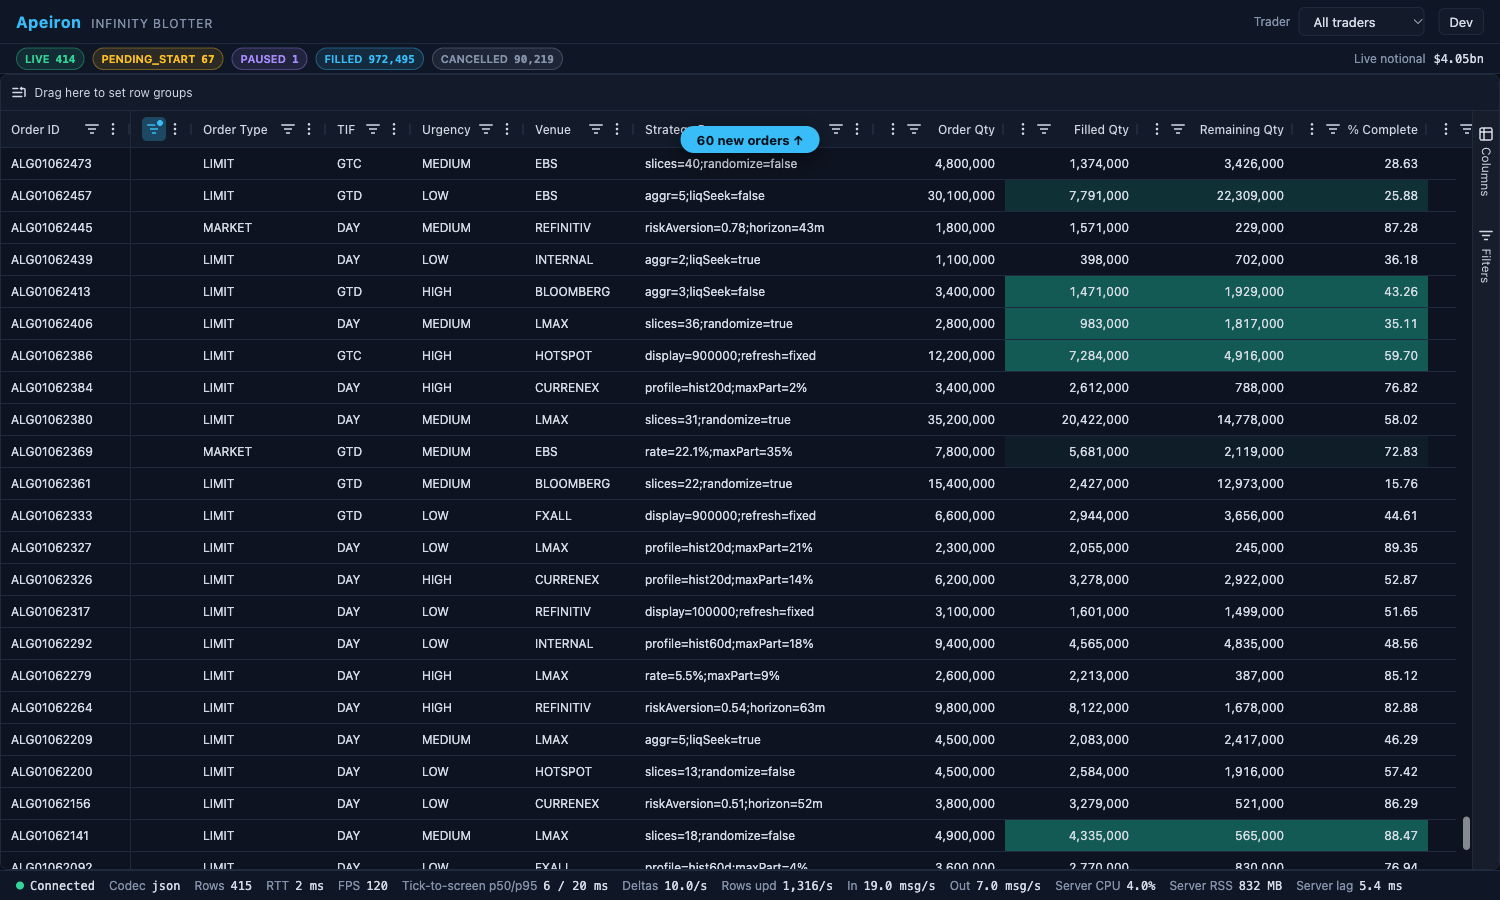
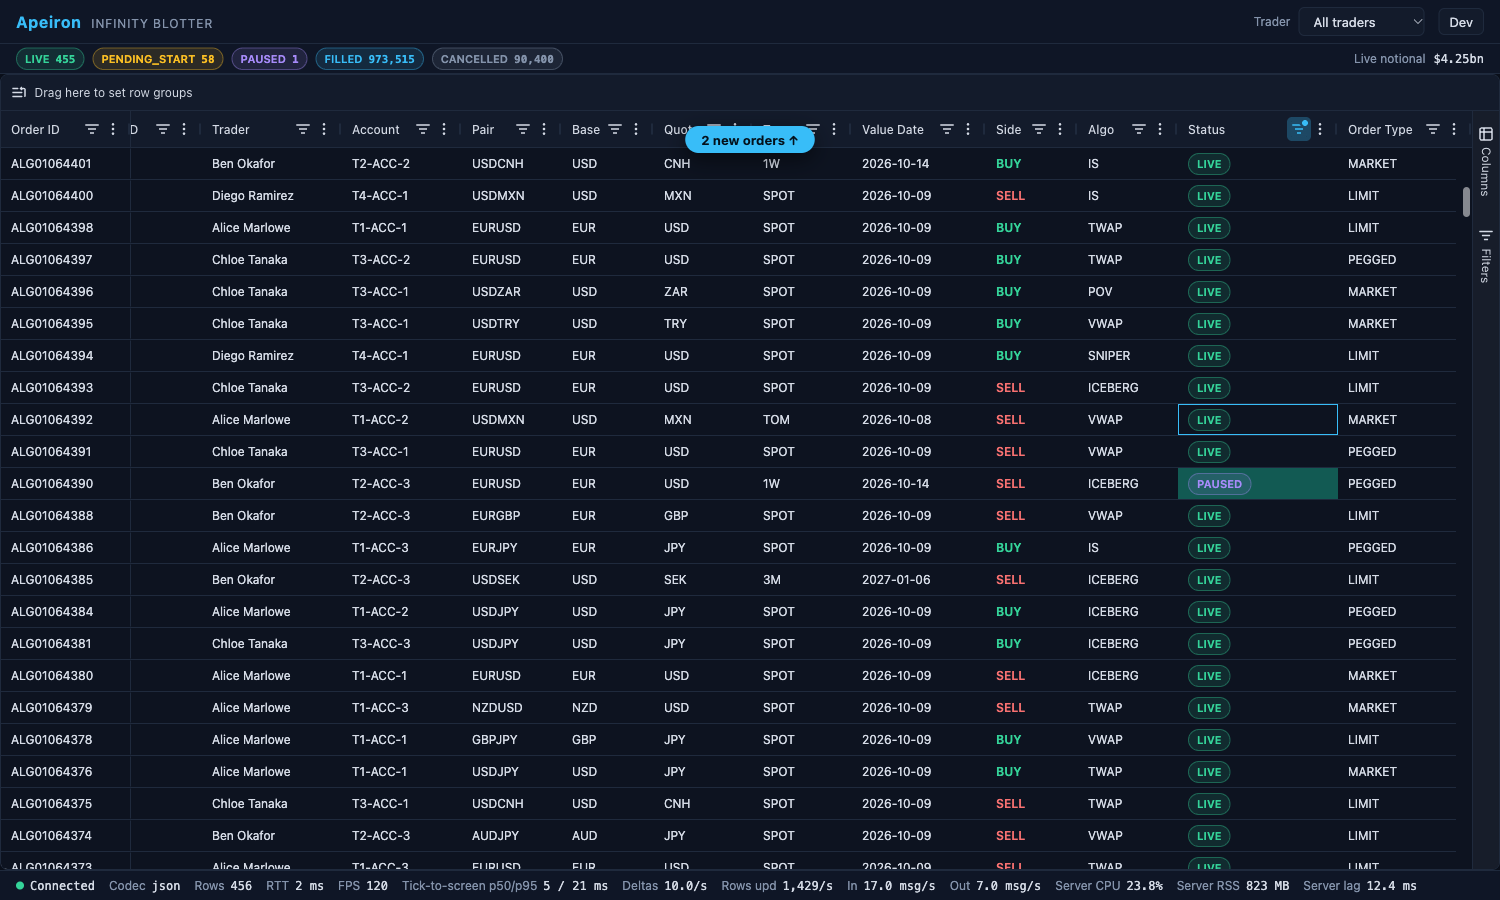
Phase 6: verification screenshots and PHASE-6 checkpoint

diff --git a/docs/checkpoints/PHASE-6.md b/docs/checkpoints/PHASE-6.md
@@ -1,0 +1,108 @@
+# Phase 6: Actions (Cancel / Pause / Resume)
+
+Branch `phase-6-actions`. Stack rebuilt with `docker compose --profile core up -d --build antikythera hermes pharos` and left running on Medium.
+
+## What was built
+- **logos**
+  - `COMMAND_ACTIONS`, `COMMAND_TARGET`, `canTransition`, `canApplyCommand`, `availableCommands`, `applyCommand` (built on `transition()`), `makeCommandId`, `REJECT_CODES`.
+  - The command, `UPDATE{commandId?}` and `REJECT` schemas already existed from earlier phases; they now reuse the shared constants.
+- **hermes**
+  - Durable consumer `hermes-commands` on `orders.commands`.
+  - `Simulator.command()` applies valid transitions and publishes `UPDATE` (with `commandId`, absolute values) or `REJECT` (`INVALID_TRANSITION`, `UNKNOWN_ORDER`).
+  - The command is acked only after the answering event is published; if that publish fails it stays unacked.
+  - PAUSED orders get no fills.
+  - Invalid payloads and commands older than 30s are dropped and acked.
+- **antikythera**
+  - `CommandCorrelator` (pending map keyed by `commandId`, 5s timeout -> `error{INTERNAL,'command timed out'}`, dropped when the session closes).
+  - `LiveRuntime.command()` does the fast pre-check (`UNKNOWN_ORDER`, `INVALID_TRANSITION`) against the store, then publishes.
+  - An `UPDATE` with a matching `commandId` is applied normally; `ack` is sent to the asker after the flush that sent the delta. `REJECT` becomes `error{reqId, code, message}`.
+  - Sessions validate `command` with zod (existing `clientMsgSchema`).
+- **pharos**
+  - `ContextMenuModule` and `ClipboardModule` registered. The menu (right-click or the ContextMenu key) shows Cancel / Pause / Resume enabled by the row's status, then Copy and Copy with Headers. Group rows and non-order areas get copy items only.
+  - Cancel opens an inline confirmation submenu ("Confirm: cancel <id>"). Pause and Resume run directly.
+  - `client.command(orderId, action)` returns a promise settled by `ack` / `error`.
+  - In-progress indicator: the status chip is dimmed with a spinner (`aria-busy`) until the ack or error.
+  - Error toasts per `ErrorCode` (`describeCommandFailure`).
+
+## Deviations / decisions
+1. **RESUME is narrower than the lifecycle.** `transition()` allows PENDING_START to LIVE (the clock's job); `canApplyCommand` restricts RESUME to PAUSED so RESUME on PENDING_START is `INVALID_TRANSITION` (found by the matrix test).
+2. **Resume extends `endTime` by the paused duration.** Without it an order paused past its end time was completed (FILLED) at once on resume instead of carrying on (seen live on the first attempt; orders live only 1-2 minutes on Medium). Hermes emits the absolute new `endTime` in the resume UPDATE.
+3. **ClipboardModule added** (same `ag-grid-enterprise` package) so the standard copy items work. No new dependency.
+4. **Cancel confirm is a submenu**, not a dialog. A native hover or click opens it; it opens to the left near the right viewport edge.
+5. Extra server option `commandTimeoutMs` (default 5000) so tests can shorten it.
+6. Keyboard: the ContextMenu key opens the menu (Shift+F10 did not in the Playwright run); ArrowUp/Down navigate, Enter activates, disabled items do nothing, Escape closes.
+7. No plan contract was changed.
+
+## Verification (raw)
+`pnpm lint && pnpm typecheck && pnpm test && pnpm build` all exit 0 (the build is cached by turbo).
+```
+logos       Tests 156 passed (12 files)
+gaia        Tests  25 passed
+pharos      Tests 379 passed (34 files)
+mnemosyne   Tests  35 passed
+iris        Tests   9 passed, 2 skipped
+hermes      Tests  56 passed (7 files)
+antikythera Tests 386 passed (38 files)
+Tasks: 10 successful, 10 total
+```
+Note: one full run had `system-stats.spec.ts` ("cumulative lag histogram", an existing timing-sensitive test, `max < 50` got 84.5) fail while the Docker stack and parallel turbo tasks loaded the machine. It passed on rerun and in isolation.
+
+New tests: logos transition x command matrix (15 combinations), command ids and schemas; hermes simulator and bus command handling (valid, invalid, unknown, ack, unacked on publish failure, stale and invalid dropped, resume end-time); antikythera correlator, runtime correlation (ack after delta, REJECT, timeout, session close, pre-check, publish failure, duplicate id), session wiring, and a real-socket integration suite with an in-memory-bus hermes (json and msgpack); pharos menu items per status x action, confirm flow, in-progress chip, error toasts, client `command`.
+
+## Live verification (Medium preset, rebuilt containers, real Playwright clicks)
+| Step | Result |
+|---|---|
+| Filter status = LIVE; Pause a LIVE order | Right-click, Pause order. Independent watcher socket: click at t, `status: PAUSED` update at t+29ms (first attempt, ALG01061479) and +? ms for ALG01064390 (click 753723 -> PAUSED 753752). |
+| Fills stop for 10s | ALG01061479: last fill (filledQty 1,293,000) before the pause, then no fill update for the 32s it stayed paused. ALG01064390: PAUSED for 11.5s with zero fill updates. |
+| Resume | ALG01064390: click at 765250, `LIVE` at 765268 (18ms); fills resumed at +4.9s (filledQty 131,000 then 285,000, 462,000, 618,000). Resume update carried the new `endTime`. |
+| Cancel with confirm | Cancel order opens "Confirm: cancel ALG01063571"; confirming made it CANCELLED (row left the LIVE/PAUSED filter, CANCELLED count rose). |
+| Cancel on FILLED | Menu: Cancel / Pause / Resume all disabled, Copy enabled; clicking a disabled item did nothing, no toast. |
+| Raw WebSocket (Node, `probe.cjs`) | Output below. |
+| Error toast | Another client cancelled the order while the menu (built from LIVE) was open; choosing Pause gave the toast "Pause failed for ALG01064667: Cannot pause an order that is CANCELLED." |
+| Keyboard | Click the cell, ContextMenu key, ArrowDown x2 reaches Resume (disabled; Enter did nothing), ArrowUp to Pause, Enter: PAUSED count 1. |
+
+Raw WebSocket probe output:
+```
+{"t":"error","reqId":1,"code":"HELLO_REQUIRED","message":"Send hello first"}
+{"t":"error","reqId":10,"code":"INVALID_TRANSITION","message":"Cannot cancel an order that is FILLED"}
+{"t":"error","reqId":11,"code":"INVALID_TRANSITION","message":"Cannot pause an order that is FILLED"}
+{"t":"error","reqId":12,"code":"INVALID_TRANSITION","message":"Cannot resume an order that is FILLED"}
+{"t":"error","reqId":13,"code":"UNKNOWN_ORDER","message":"Order ALG99999999 does not exist"}
+{"t":"error","reqId":14,"code":"BAD_MESSAGE","message":"action: Invalid option: expected one of \"CANCEL\"|\"PAUSE\"|\"RESUME\""}
+{"t":"error","reqId":15,"code":"BAD_MESSAGE","message":"orderId: Too small: expected string to have >=1 characters"}
+{"t":"error","reqId":16,"code":"BAD_MESSAGE","message":"action: Invalid option: expected one of \"CANCEL\"|\"PAUSE\"|\"RESUME\""}
+```
+
+### Round-trip latency (14 commands: 7 Pause + 7 Resume, real menu clicks)
+Measured in the page: a capture-phase click listener on the menu item gives t0; a MutationObserver on the status cell gives the moment the status text changed on screen and the moment the in-progress spinner went away (the `ack`).
+
+| Metric | click to status on screen | click to ack (spinner gone) |
+|---|---|---|
+| p50 | 57.9 ms | 63.7 ms |
+| p95 | 89.0 ms | 110.7 ms |
+| min / max | 16.2 / 89.0 ms | 16.2 / 110.7 ms |
+
+Samples (ms), status: 16.2, 16.7, 34.2, 42.9, 57.7, 57.7, 57.9, 59.8, 64.9, 66.6, 69.7, 72.1, 87.1, 89.0. Ack: 16.2, 16.9, 34.2, 42.9, 57.7, 57.9, 63.7, 68.9, 69.6, 69.7, 72.3, 91.7, 93.2, 110.7. Nearest-rank percentiles. Target 500ms; stop threshold 1s: not approached. The ack always follows the delta (same flush), at most about 5ms later.
+
+Harness note: in a few attempts the harness lost its row handle (rows churn at ~10 orders/s) and recorded nothing for that command; the commands themselves had succeeded (11 orders were found PAUSED and resumed by a cleanup script). Those attempts are excluded from the 14.
+
+### Screenshots (`docs/screenshots/phase-6/`)
+- `01-context-menu-live-row.png`: context menu on a LIVE row
+- `02-cancel-confirm.png`: Cancel confirmation submenu
+- `03-paused-row.png`: a PAUSED row
+- `04-error-toast.png`: error toast
+- `05-filled-row-menu-disabled.png`: all three actions disabled on a FILLED row
+- `06-keyboard-menu.png`: keyboard navigation
+
+## Versions and exceptions
+No new dependencies. TypeScript ~6.0.3, AG Grid 36.2 (`ContextMenuModule` and `ClipboardModule` from `ag-grid-enterprise`), React 19.3, Vitest 5, zod 4.6, NATS 2.15, MongoDB 9.0. Exceptions: none beyond the existing ones.
+
+## Known weaknesses
+- The `ack` means "applied in the server's store and delta sent", not "persisted"; write-behind is asynchronous.
+- A stale pre-check (status changed between menu open and server receipt) is answered by the server's own pre-check or by hermes; the first is cheap, the second a round trip. Both give a toast.
+- Hermes drops commands older than 30s on redelivery; an unacknowledged command for a crashed hermes is lost from the user's view after the 5s timeout.
+- If hermes has restarted, a PAUSED order's pause time is its stored `lastUpdateTime`, so the resumed `endTime` extension is approximate.
+- PAUSED orders never expire on their own (they stay PAUSED until resumed or cancelled).
+- Group-row behaviour (no order actions) is covered by unit tests only, not clicked live.
+- Shift+F10 did not open the menu in the Playwright run; the ContextMenu key did.
+- The `system-stats` lag test is timing-sensitive under load (see above).
